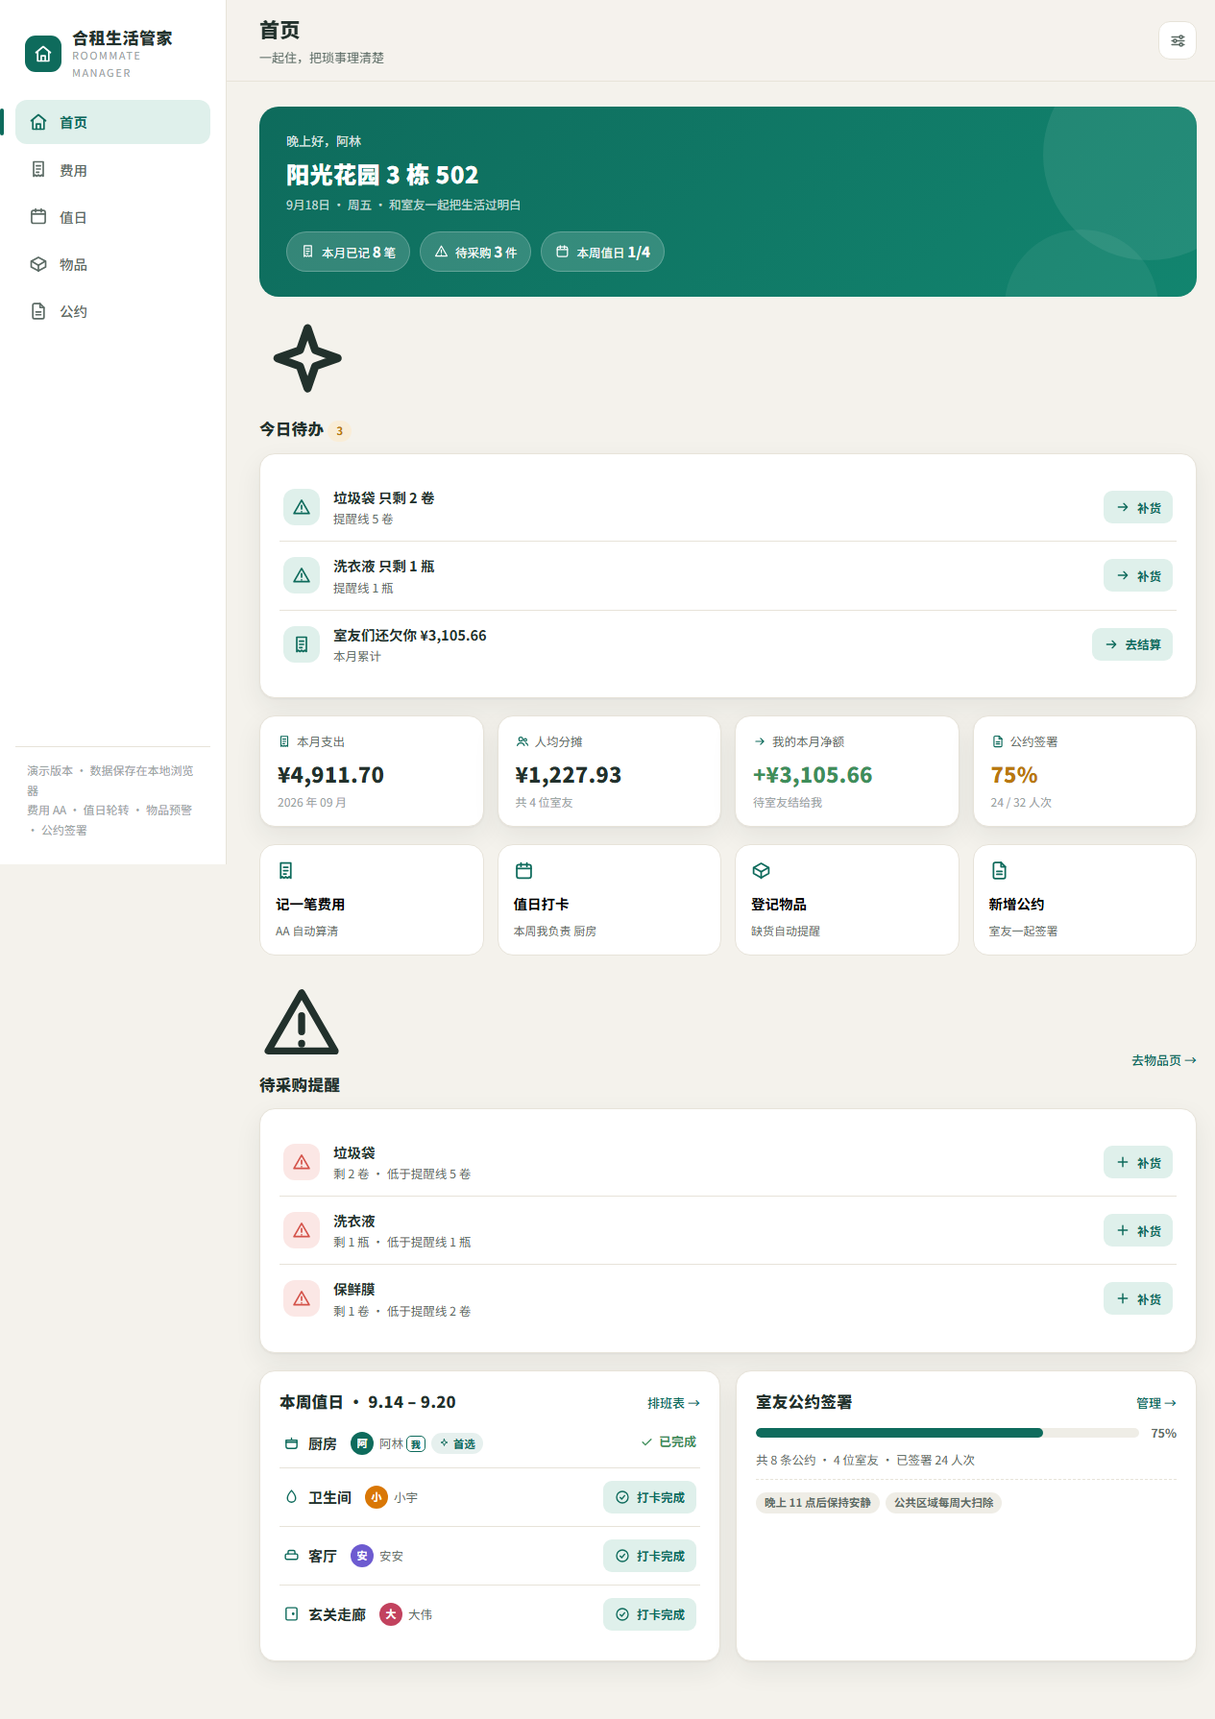
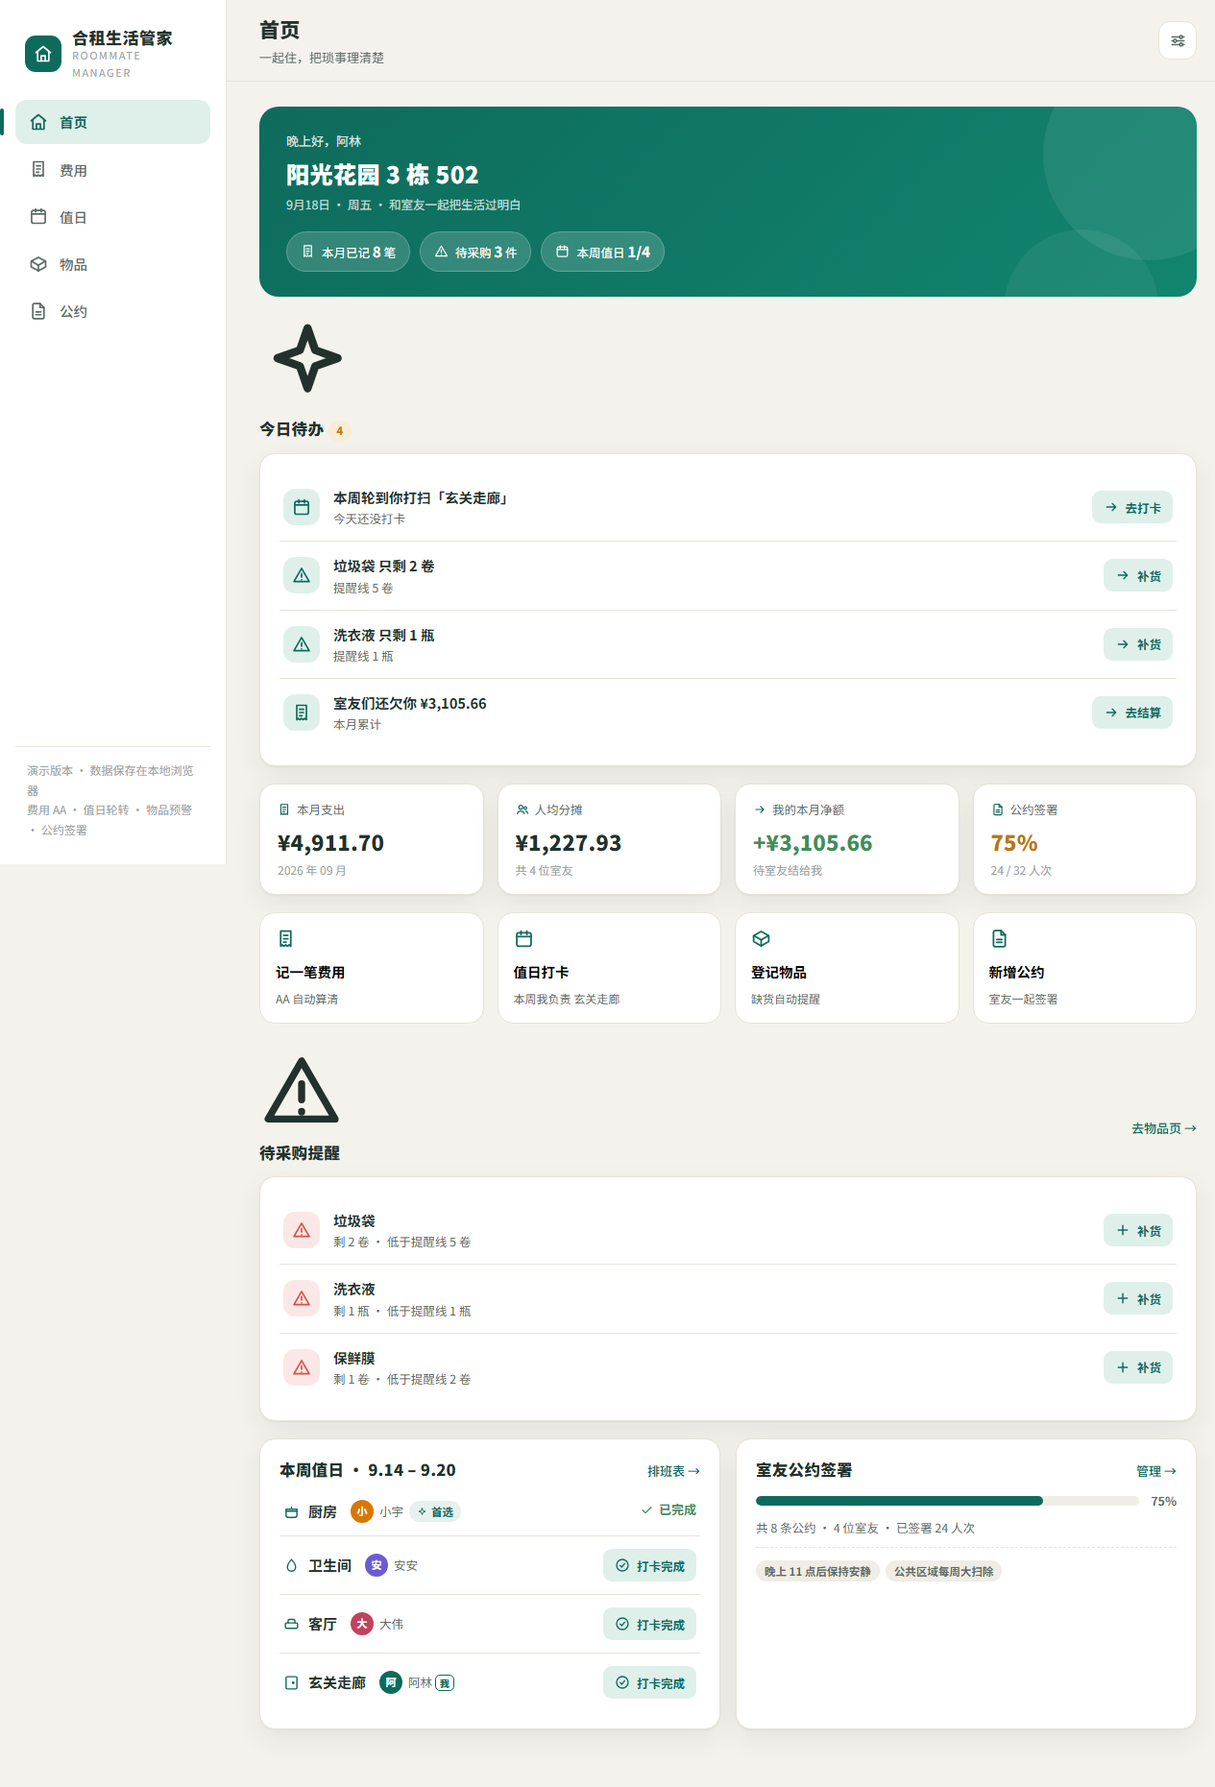
feat: 值日历史补偿机制 - 让位/捡脏活记分，高分者首选优先、低分者兜底，带补偿徽标与跨周结算

Changed region(s): [[0.2158, 0.0, 0.9866, 0.9525], [0.0, 0.0, 0.1542, 0.1844], [0.0, 0.4302, 0.1542, 0.4916]]

diff --git a/index.html b/index.html
@@ -184,6 +184,8 @@ textarea.input{resize:vertical;min-height:72px}
 .swap-badge{display:inline-flex;align-items:center;gap:5px;color:#B9770E;font-weight:700;font-size:12px;background:var(--accent-soft);padding:3px 9px;border-radius:999px}
 .pref-badge{display:inline-flex;align-items:center;gap:4px;color:var(--primary);font-weight:700;font-size:11.5px;background:rgba(14,107,92,.1);padding:2px 8px;border-radius:999px}
 .pref-badge svg{width:11px;height:11px}
+.credit-badge{display:inline-flex;align-items:center;gap:4px;color:#B9770E;font-weight:700;font-size:11.5px;background:var(--accent-soft);padding:2px 8px;border-radius:999px}
+.credit-badge svg{width:11px;height:11px}
 .pref-row{display:flex;align-items:center;gap:12px;padding:10px 2px;border-bottom:1px dashed var(--line);flex-wrap:wrap}
 .pref-row:last-child{border-bottom:none}
 .pref-row .person-cell{min-width:130px}
@@ -357,26 +359,40 @@ const AV_COLORS=['#0E6B5C','#D97706','#6D5BD0','#C2425E','#0E7490','#4D7C0F','#B
 const KEY='hezu_guanjia_v1';
 let S=null;
 function rm(id){return S.roommates.find(x=>x.id===id)||S.roommates[0];}
-function dutyOf(week,rms){
+function dutyOf(week,rms,credits){
   rms=rms||S.roommates;const m=week.match(/^(\d+)-W(\d+)$/);const n=rms.length||1;
   const base=(+m[1]*53+(+m[2]))%n;
   const prefs=(S&&S.prefs)||{};
+  const cr=credits||((S&&S.credits)||{});
+  const crOf=id=>cr[id]||0;
   const assign={};const used={};
   for(let idx=0;idx<AREAS.length;idx++){
     const a=AREAS[idx];if(assign[a.id])continue;
-    const cand=rms.find(r=>!used[r.id]&&((prefs[r.id]||{}).preferred===a.id)&&((prefs[r.id]||{}).unavailable!==a.id));
-    if(cand){assign[a.id]=cand.id;used[cand.id]=true;}
+    const cands=rms.filter(r=>!used[r.id]&&((prefs[r.id]||{}).preferred===a.id)&&((prefs[r.id]||{}).unavailable!==a.id));
+    if(cands.length){
+      cands.sort((x,y)=>crOf(y.id)-crOf(x.id));
+      assign[a.id]=cands[0].id;used[cands[0].id]=true;
+    }
   }
+  AREAS.filter(a=>!assign[a.id]&&rms.every(r=>used[r.id]||(prefs[r.id]||{}).unavailable===a.id)).forEach(a=>{
+    const free=rms.filter(r=>!used[r.id]);
+    if(free.length){free.sort((x,y)=>crOf(x.id)-crOf(y.id));assign[a.id]=free[0].id;used[free[0].id]=true;}
+  });
   for(let idx=0;idx<AREAS.length;idx++){
     const a=AREAS[idx];if(assign[a.id])continue;
+    let done=false;
     for(let k=0;k<n;k++){
       const r=rms[(base+idx+k)%n];
       if(used[r.id])continue;
       if((prefs[r.id]||{}).unavailable===a.id)continue;
-      assign[a.id]=r.id;used[r.id]=true;break;
+      assign[a.id]=r.id;used[r.id]=true;done=true;break;
+    }
+    if(!done){
+      const free=rms.filter(r=>!used[r.id]);
+      if(free.length){free.sort((x,y)=>crOf(x.id)-crOf(y.id));assign[a.id]=free[0].id;used[free[0].id]=true;}
     }
   }
-  AREAS.forEach(a=>{if(!assign[a.id]){const free=rms.find(r=>!used[r.id]);if(free){assign[a.id]=free.id;used[free.id]=true;}}});
+  AREAS.forEach(a=>{if(!assign[a.id]){const free=rms.filter(r=>!used[r.id]);if(free.length){free.sort((x,y)=>crOf(x.id)-crOf(y.id));assign[a.id]=free[0].id;used[free[0].id]=true;}}});
   return assign;
 }
 function defaultState(){
@@ -394,16 +410,16 @@ function defaultState(){
   const ruleSigns={};rules.forEach((r,i)=>{const signed=i%3===2?[me.id,r3.id]:i%4===0?[me.id,r2.id,r3.id,r4.id]:i%5===0?[me.id,r2.id]:[me.id,r2.id,r3.id];ruleSigns[r.id]=signed;});
   const tasks={};for(let k=1;k<=4;k++){const key=weekKeyOf(addDays(new Date(),-7*k));const duty=dutyOf(key,rms);AREAS.forEach((a,idx)=>{if(idx!==k%4){tasks[key+'_'+a.id]=daysAgo(7*k-(k%3));}});}
   const wk=weekKeyOf(new Date());tasks[wk+'_kitchen']=daysAgo(1);
-  return {version:1,flat:{name:'阳光花园 3 栋 502',createdAt:daysAgo(60)},meId:me.id,roommates:rms,expenses:exps.filter(Boolean),items,rules,ruleSigns,tasks,prefs:{[me.id]:{preferred:'kitchen',unavailable:null}},swaps:{},lastDataReset:null};
+  return {version:1,flat:{name:'阳光花园 3 栋 502',createdAt:daysAgo(60)},meId:me.id,roommates:rms,expenses:exps.filter(Boolean),items,rules,ruleSigns,tasks,prefs:{[me.id]:{preferred:'kitchen',unavailable:null},[r2.id]:{preferred:'kitchen',unavailable:null}},credits:{[r2.id]:2},swaps:{},lastDataReset:null};
 }
 function buildFreshState(flatName,names){
   const rms=names.map((n,i)=>({id:uid(),name:n,color:AV_COLORS[i%AV_COLORS.length]}));
   const fr=(t,c,ct)=>({id:uid(),title:t,cat:c,content:ct,createdAt:dstr(new Date())});
   const rules=[fr('晚上 11 点后保持安静','作息噪音','23:00 后客厅不喧闹，音乐、游戏、视频尽量戴耳机或调低音量。'),fr('公共区域每周大扫除','清洁卫生','每周日按值日表完成清洁，完成后在「值日」模块打卡。'),fr('访客提前说一声','访客','带朋友回家在群里说一声；留宿不超过 3 晚，需征得室友同意。')];
   const ruleSigns={};rules.forEach(r=>{ruleSigns[r.id]=[];});
-  return {version:1,flat:{name:flatName,createdAt:dstr(new Date())},meId:rms[0].id,roommates:rms,expenses:[],items:[],rules,ruleSigns,tasks:{},prefs:{},swaps:{},onboarded:true};
+  return {version:1,flat:{name:flatName,createdAt:dstr(new Date())},meId:rms[0].id,roommates:rms,expenses:[],items:[],rules,ruleSigns,tasks:{},prefs:{},credits:{},swaps:{},onboarded:true};
 }
-function load(){try{const raw=localStorage.getItem(KEY);if(raw){S=JSON.parse(raw);if(S&&Array.isArray(S.roommates)&&S.roommates.length&&Array.isArray(S.expenses)){if(!S.swaps)S.swaps={};if(!S.prefs)S.prefs={};return;}}}catch(e){}S=defaultState();}
+function load(){try{const raw=localStorage.getItem(KEY);if(raw){S=JSON.parse(raw);if(S&&Array.isArray(S.roommates)&&S.roommates.length&&Array.isArray(S.expenses)){if(!S.swaps)S.swaps={};if(!S.prefs)S.prefs={};if(!S.credits)S.credits={};return;}}}catch(e){}S=defaultState();}
 function save(){try{localStorage.setItem(KEY,JSON.stringify(S));}catch(e){toast('保存失败：浏览器存储不可用');}}
 function resetDemo(){S=defaultState();save();renderAll();toast('已重置为演示数据');}
 function clearAll(){try{localStorage.removeItem(KEY);}catch(e){}location.reload();}
@@ -421,7 +437,7 @@ function itemLow(it){return it.qty<=it.threshold;}
 function currentPage(){const h=location.hash.replace(/^#\/?/,'').split('?')[0];return NAV.some(n=>n.id===h)?h:'home';}
 function navigate(p){location.hash='#/'+p;}
 function renderNav(p){const navs=NAV.map(n=>'<a class="nav-item'+(n.id===p?' active':'')+'" href="#/'+n.id+'">'+n.icon+'<span>'+n.label+'</span></a>').join('');$('#side-nav').innerHTML=navs;const tabs=NAV.map(n=>'<a class="tab'+(n.id===p?' active':'')+'" href="#/'+n.id+'">'+n.icon+'<span>'+n.label+'</span></a>').join('');$('#tab-nav').innerHTML=tabs;}
-function renderAll(){const p=currentPage();renderNav(p);const meta=PAGES[p];$('#page-title').textContent=meta[0];$('#page-sub').textContent=meta[1];const el=$('#content');if(p==='home')el.innerHTML=viewHome();else if(p==='expense')el.innerHTML=viewExpense();else if(p==='cleaning')el.innerHTML=viewCleaning();else if(p==='items')el.innerHTML=viewItems();else el.innerHTML=viewRules();window.scrollTo(0,0);}
+function renderAll(){settleDue();const p=currentPage();renderNav(p);const meta=PAGES[p];$('#page-title').textContent=meta[0];$('#page-sub').textContent=meta[1];const el=$('#content');if(p==='home')el.innerHTML=viewHome();else if(p==='expense')el.innerHTML=viewExpense();else if(p==='cleaning')el.innerHTML=viewCleaning();else if(p==='items')el.innerHTML=viewItems();else el.innerHTML=viewRules();window.scrollTo(0,0);}
 function avatarHtml(r,cls){return '<span class="avatar '+(cls||'')+'" style="background:'+r.color+'">'+esc(r.name.slice(0,1))+'</span>';}
 function nameHtml(r,cls){return '<span class="'+(cls||'')+'">'+esc(r.name)+(r.id===S.meId?' <span class="me-tag">我</span>':'')+'</span>';}
 function catChip(c){return '<span class="chip teal">'+esc(c)+'</span>';}
@@ -552,23 +568,46 @@ function doSwap(aid,toId){
 function cancelSwap(aid){const wk=weekKeyOf(new Date());delete S.swaps[wk+'_'+aid];save();renderAll();toast('已恢复原排班');}
 function openPrefModal(){
   const opts=(cur)=>'<option value="">无</option>'+AREAS.map(a=>'<option value="'+a.id+'"'+(cur===a.id?' selected':'')+'>'+a.name+'</option>').join('');
-  const rows=S.roommates.map(r=>{const p=S.prefs[r.id]||{};return '<div class="pref-row"><div class="person-cell">'+avatarHtml(r)+'<b>'+esc(r.name)+(r.id===S.meId?' <span class="me-tag">我</span>':'')+'</b></div><div class="pref-sels"><label>首选 <select class="input" name="pref_'+r.id+'">'+opts(p.preferred)+'</select></label><label>不方便 <select class="input" name="unav_'+r.id+'">'+opts(p.unavailable)+'</select></label></div></div>';}).join('');
+  const rows=S.roommates.map(r=>{const p=S.prefs[r.id]||{};const cc=S.credits[r.id]||0;return '<div class="pref-row"><div class="person-cell">'+avatarHtml(r)+'<b>'+esc(r.name)+(r.id===S.meId?' <span class="me-tag">我</span>':'')+(cc>0?' <span class="credit-badge">补偿 +'+cc+'</span>':'')+'</b></div><div class="pref-sels"><label>首选 <select class="input" name="pref_'+r.id+'">'+opts(p.preferred)+'</select></label><label>不方便 <select class="input" name="unav_'+r.id+'">'+opts(p.unavailable)+'</select></label></div></div>';}).join('');
   openModal('<div class="modal-head"><div class="modal-title">值日偏好</div><button type="button" class="modal-x" onclick="closeModal()">'+ICONS_X+'</button></div>'
-    +'<div style="font-size:13px;color:var(--ink-2);line-height:1.9;margin-bottom:12px">每位室友可标一个<b style="color:var(--ink)">首选区域</b>（优先排给你）和一个<b style="color:var(--ink)">不方便区域</b>（自动跳过）。排班会在公平轮换的基础上尽量满足，不设置就照旧轮流。</div>'
+    +'<div style="font-size:13px;color:var(--ink-2);line-height:1.9;margin-bottom:12px">每位室友可标一个<b style="color:var(--ink)">首选区域</b>（优先排给你）和一个<b style="color:var(--ink)">不方便区域</b>（自动跳过）。首选撞车或区域没人愿意时，系统自动<b style="color:var(--ink)">记补偿分</b>：让位 +1、捡到不方便区域 +2，下次排班补偿分高的人优先满足首选，谁都不吃亏。</div>'
     +'<form onsubmit="submitPrefs(event)">'+rows+'<div class="modal-foot"><button type="button" class="btn ghost" onclick="closeModal()">取消</button><button type="submit" class="btn primary">保存并重新排班</button></div></form>');
 }
 function submitPrefs(ev){ev.preventDefault();const f=ev.target;const p={};
   S.roommates.forEach(r=>{p[r.id]={preferred:f['pref_'+r.id]?f['pref_'+r.id].value||null:null,unavailable:f['unav_'+r.id]?f['unav_'+r.id].value||null:null};});
-  S.prefs=p;save();closeModal();toast('排班已按偏好更新');renderAll();
+  const wk=weekKeyOf(new Date());
+  settleCredits(wk,S.roommates,dutyOf(wk,S.roommates,S.credits),S.prefs);
+  S.prefs=p;save();closeModal();toast('排班已按偏好与补偿更新');renderAll();
+}
+function settleCredits(week,rms,duty,prefs){
+  if(!S.credits)S.credits={};
+  rms.forEach(r=>{
+    const p=prefs[r.id]||{};
+    const got=Object.keys(duty).find(a=>duty[a]===r.id);
+    if(p.preferred){
+      if(got===p.preferred)S.credits[r.id]=Math.max(0,(S.credits[r.id]||0)-1);
+      else if(duty[p.preferred]&&duty[p.preferred]!==r.id)S.credits[r.id]=(S.credits[r.id]||0)+1;
+    }
+    if(p.unavailable&&got===p.unavailable)S.credits[r.id]=(S.credits[r.id]||0)+2;
+  });
+}
+function settleDue(){
+  if(!S.credits)S.credits={};
+  const wk=weekKeyOf(new Date());
+  if(!S.lastSettle){S.lastSettle=wk;return;}
+  if(S.lastSettle!==wk){
+    settleCredits(S.lastSettle,S.roommates,dutyOf(S.lastSettle,S.roommates,S.credits),S.prefs);
+    S.lastSettle=wk;
+  }
 }
 function viewCleaning(){
   const wk=weekKeyOf(new Date());const next=weekKeyOf(addDays(new Date(),7));
   const duty=dutyOf(wk);const dutyNext=dutyOf(next);
   const doneCount=AREAS.filter(a=>S.tasks[wk+'_'+a.id]).length;
-  const rows=AREAS.map(a=>{const rid=swapFor(wk,a.id);const r=rm(rid);const done=!!S.tasks[wk+'_'+a.id];const sw=S.swaps[wk+'_'+a.id];const pf=(S.prefs[rid]||{}).preferred===a.id;
+  const rows=AREAS.map(a=>{const rid=swapFor(wk,a.id);const r=rm(rid);const done=!!S.tasks[wk+'_'+a.id];const sw=S.swaps[wk+'_'+a.id];const pf=(S.prefs[rid]||{}).preferred===a.id;const cc=S.credits[rid]||0;
     const ops=done?'<span class="done-badge">'+ICONS.check+'已完成</span>':'<div style="display:flex;gap:6px;justify-content:flex-end"><button class="btn soft sm" onclick="toggleDuty(\''+a.id+'\')">'+ICONS.checkc+'打卡</button><button class="btn ghost sm" onclick="swapDuty(\''+a.id+'\')">'+ICONS.swap+'调班</button></div>';
-    return '<tr><td><div class="duty-area">'+a.icon+'<span>'+a.name+'</span></div></td><td><div class="person-cell">'+avatarHtml(r)+nameHtml(r)+(pf?' <span class="pref-badge">'+ICONS.spark+'首选</span>':'')+(sw?' <span class="swap-badge">'+ICONS.swap+'已调班</span>':'')+'</div></td><td style="text-align:right;white-space:nowrap">'+ops+'</td></tr>';}).join('');
-  const nextRows=AREAS.map(a=>{const r=rm(dutyNext[a.id]);const pf=(S.prefs[r.id]||{}).preferred===a.id;return '<tr><td><div class="duty-area">'+a.icon+'<span>'+a.name+'</span></div></td><td><div class="person-cell">'+avatarHtml(r)+nameHtml(r)+(pf?' <span class="pref-badge">'+ICONS.spark+'首选</span>':'')+'</div></td></tr>';}).join('');
+    return '<tr><td><div class="duty-area">'+a.icon+'<span>'+a.name+'</span></div></td><td><div class="person-cell">'+avatarHtml(r)+nameHtml(r)+(pf?' <span class="pref-badge">'+ICONS.spark+'首选</span>':'')+(pf&&cc>0?' <span class="credit-badge">补偿 +'+cc+'</span>':'')+(sw?' <span class="swap-badge">'+ICONS.swap+'已调班</span>':'')+'</div></td><td style="text-align:right;white-space:nowrap">'+ops+'</td></tr>';}).join('');
+  const nextRows=AREAS.map(a=>{const r=rm(dutyNext[a.id]);const pf=(S.prefs[r.id]||{}).preferred===a.id;const cc=S.credits[r.id]||0;return '<tr><td><div class="duty-area">'+a.icon+'<span>'+a.name+'</span></div></td><td><div class="person-cell">'+avatarHtml(r)+nameHtml(r)+(pf?' <span class="pref-badge">'+ICONS.spark+'首选</span>':'')+(pf&&cc>0?' <span class="credit-badge">补偿 +'+cc+'</span>':'')+'</div></td></tr>';}).join('');
   let hist='';for(let k=4;k>=1;k--){const key=weekKeyOf(addDays(new Date(),-7*k));const dutyK=dutyOf(key);const dots=AREAS.map(a=>{const done=!!S.tasks[key+'_'+a.id];return '<span class="hist-dot"><i class="'+(done?'done':'no')+'"></i>'+a.name+'</span>';}).join('');hist+='<div class="hist-week"><div class="wk">'+fmtWeek(key)+'</div><div class="hist-dots">'+dots+'</div></div>';}
   const swaps=Object.keys(S.swaps).filter(k=>k.startsWith(wk+'_')).map(k=>{const a=AREAS.find(x=>x.id===k.slice(wk.length+1));const s=S.swaps[k];return '<div class="swap-note"><b>'+a.name+'</b><span class="swap-arrow">'+ICONS.arrow+'</span>'+esc(rm(s.from).name)+' → <b>'+esc(rm(s.to).name)+'</b><span style="margin-left:auto">'+esc(rm(s.by).name)+' '+fmtDate(s.at).replace(' · 周'+['日','一','二','三','四','五','六'][new Date(s.at+'T00:00:00').getDay()],'')+'</span><button class="section-link" style="font-size:11.5px" onclick="cancelSwap(\''+a.id+'\')">撤销</button></div>';}).join('');
   const swapHtml=swaps?'<div class="section"><div class="section-head"><div class="section-title">本周调班记录</div></div><div class="card" style="padding:12px 16px">'+swaps+'</div></div>':'';
@@ -678,7 +717,7 @@ function submitRule(ev,id){ev.preventDefault();const f=ev.target;const title=f.t
   const rec={id:uid(),title,cat:f.cat.value,content,createdAt:dstr(new Date())};S.rules.unshift(rec);S.ruleSigns[rec.id]=[];save();closeModal();toast('公约已发布，快@室友来签');renderAll();}
 function openRoommateModal(){openModal('<div class="modal-head"><div class="modal-title">添加室友</div><button type="button" class="modal-x" onclick="closeModal()">'+ICONS_X+'</button></div><form onsubmit="submitRoommate(event)">'+field('室友昵称', '<input class="input" name="name" required maxlength="10" placeholder="例如：小林">')+'<div class="modal-foot"><button type="button" class="btn ghost" onclick="closeModal()">取消</button><button type="submit" class="btn primary">加入合租</button></div></form>');}
 function submitRoommate(ev){ev.preventDefault();const name=ev.target.name.value.trim();if(!name){toast('请填写昵称');return;}if(S.roommates.some(r=>r.name===name)){toast('已有同名室友');return;}S.roommates.push({id:uid(),name,color:AV_COLORS[S.roommates.length%AV_COLORS.length]});save();closeModal();toast('欢迎 '+name+' 入住');renderAll();}
-function removeRoommate(id){if(id===S.meId){toast('不能移除自己');return;}if(!confirm('确定移除 '+rm(id).name+' 吗？相关账目与签署记录会自动整理。'))return;S.roommates=S.roommates.filter(r=>r.id!==id);S.expenses.forEach(e=>{e.participantIds=e.participantIds.filter(pid=>pid!==id);if(e.payerId===id)e.payerId=S.meId;});Object.keys(S.ruleSigns).forEach(k=>{S.ruleSigns[k]=S.ruleSigns[k].filter(x=>x!==id);});if(S.prefs)delete S.prefs[id];save();renderAll();toast('已移除室友');}
+function removeRoommate(id){if(id===S.meId){toast('不能移除自己');return;}if(!confirm('确定移除 '+rm(id).name+' 吗？相关账目与签署记录会自动整理。'))return;S.roommates=S.roommates.filter(r=>r.id!==id);S.expenses.forEach(e=>{e.participantIds=e.participantIds.filter(pid=>pid!==id);if(e.payerId===id)e.payerId=S.meId;});Object.keys(S.ruleSigns).forEach(k=>{S.ruleSigns[k]=S.ruleSigns[k].filter(x=>x!==id);});if(S.prefs)delete S.prefs[id];if(S.credits)delete S.credits[id];save();renderAll();toast('已移除室友');}
 function openSettings(){
   openModal('<div class="modal-head"><div class="modal-title">设置</div><button type="button" class="modal-x" onclick="closeModal()">'+ICONS_X+'</button></div><form onsubmit="submitSettings(event)">'+field('公寓名称', '<input class="input" name="flatname" required maxlength="30" value="'+esc(S.flat.name)+'">')+'<div class="modal-foot"><button type="button" class="btn ghost" onclick="closeModal()">取消</button><button type="submit" class="btn primary">保存</button></div></form><div class="section" style="margin-top:6px"><div class="section-title" style="margin-bottom:10px">数据</div><div style="display:flex;gap:10px;flex-wrap:wrap"><button type="button" class="btn ghost" onclick="resetDemo()">看看演示数据</button><button type="button" class="btn ghost" onclick="exportData()">'+ICONS.download+'导出备份</button><button type="button" class="btn ghost" onclick="document.getElementById(\'import-file\').click()">'+ICONS.upload+'导入备份</button><button type="button" class="btn danger" onclick="clearAll()">清空并重新引导</button></div><input type="file" id="import-file" accept="application/json,.json" style="display:none" onchange="importData(event)"><div class="row-sub" style="margin-top:14px">数据保存在当前浏览器 localStorage，仅本机可见。「看看演示数据」可快速体验完整流程；「导出备份」可下载 JSON 文件随身携带，换设备或清浏览器后「导入备份」一键恢复。</div></div>');
 }

diff --git a/README.md b/README.md
@@ -29,6 +29,7 @@
 ### 3. 值日 · 排班打卡
 - 公共区域按周自动轮换（厨房 / 卫生间 / 客厅 / 玄关走廊），每周日 20:00 前打卡
 - **值日偏好**：每位室友可标「首选区域」（优先排给你）与「不方便区域」（自动跳过），排班在公平轮换基础上尽量满足个人意愿，本周与下周排班实时生效、带「首选」徽标
+- **历史补偿**：首选撞车或区域没人愿意时自动记补偿分——让位 +1、捡到不方便区域 +2；下次排班补偿分高的人优先满足首选、捡脏活优先给低分者，长期谁都不吃亏（带「补偿 +N」徽标）
 - **请假调班**：本周有事一键把区域换给指定室友，换班记录留痕、随时可撤销，首页待办同步更新
 - 近 4 周历史打卡一目了然
 
@@ -65,7 +66,7 @@
 
 - **单文件应用**：一个 `index.html` 内含全部 HTML / CSS / JavaScript，零依赖、零构建，拿到就能用
 - **原生技术栈**：原生 JS + Hash 路由 + `localStorage` 持久化（无框架、无后端）
-- **排班算法**：按周轮换 + 偏好感知（首选优先、不方便跳过、兜底填空），无偏好时与纯轮换输出完全一致（已回归验证）
+- **排班算法**：按周轮换 + 偏好感知（首选优先、不方便跳过）+ 历史补偿（让位/捡脏活记分、高分者优先），无偏好无积分时与纯轮换输出完全一致（已回归验证）
 - **响应式**：桌面 / 手机 / 平板自适应；移动端可「添加到主屏幕」（PWA manifest + 图标 + 主题色）
 - **视觉**：深 teal 主色 + 暖金点缀，内联 SVG 图标体系（不用 emoji），组件化重渲染
 
